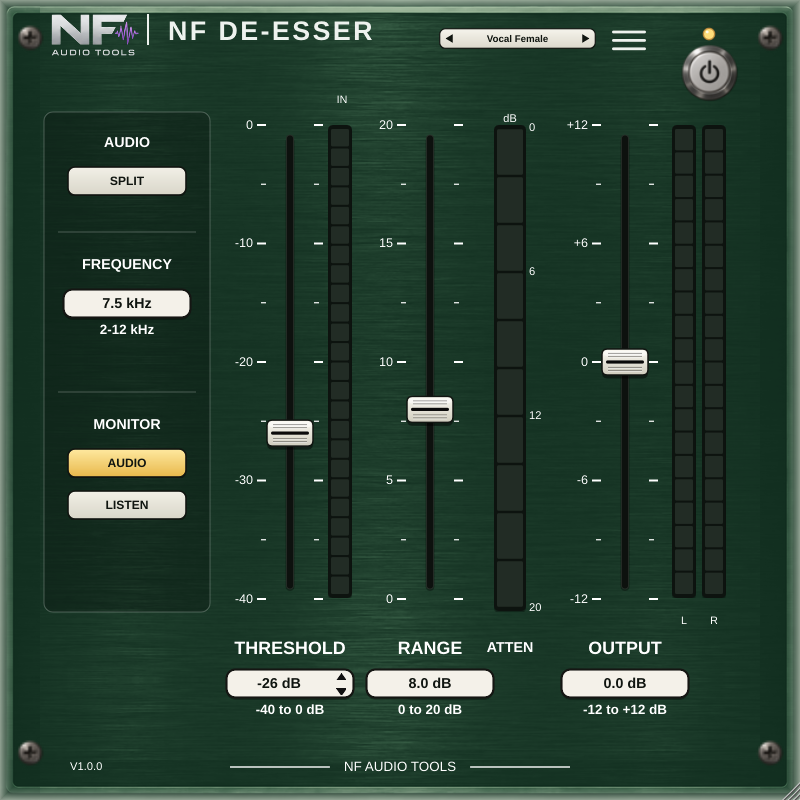
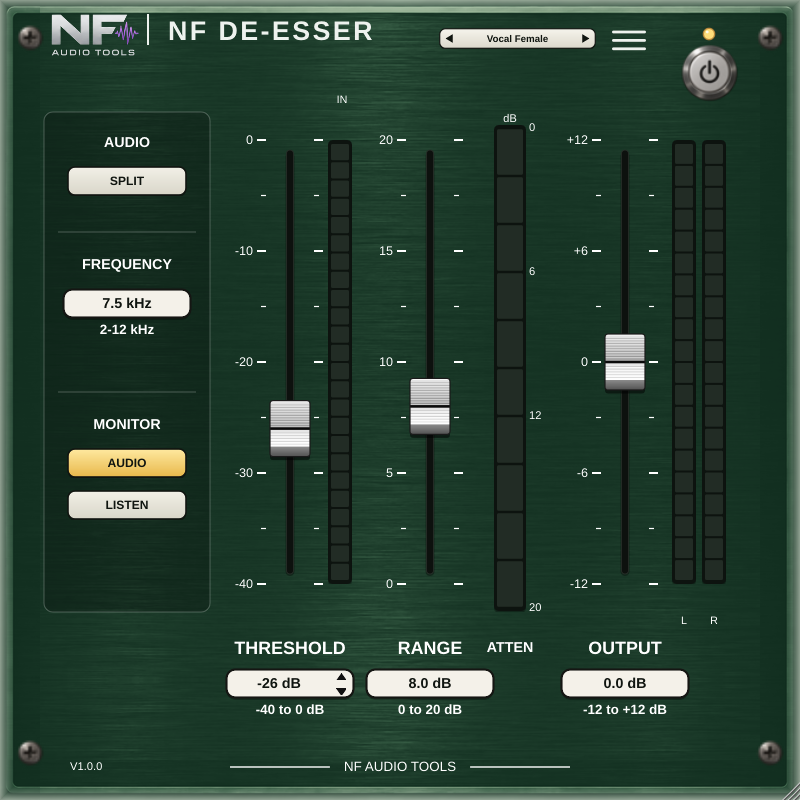
Silver ribbed fader cap with a black centre line
Claude-Session: https://claude.ai/code/session_01EbhKLRF1YXDywKjGvwZhBR

diff --git a/Source/UI/NFDeEsserLookAndFeel.cpp b/Source/UI/NFDeEsserLookAndFeel.cpp
@@ -55,7 +55,7 @@ void NFDeEsserLookAndFeel::drawRotarySlider(juce::Graphics& g,int x,int y,int w,
 // The vertical faders (component id "fader"): the thumb travel margin scales with the component so the scale marks drawn by the editor line up.
 int NFDeEsserLookAndFeel::getSliderThumbRadius(juce::Slider& slider)
 {
-    if (slider.getComponentID() == "fader") return juce::roundToInt((float) slider.getWidth() * 0.24f);
+    if (slider.getComponentID() == "fader") return juce::roundToInt((float) slider.getWidth() * 0.5f);   // half the cap height (56 base units)
     return juce::LookAndFeel_V4::getSliderThumbRadius(slider);
 }
 
@@ -81,27 +81,46 @@ void NFDeEsserLookAndFeel::drawLinearSlider(juce::Graphics& g,int x,int y,int wi
     g.setColour(juce::Colour(0xff2a302b));
     g.drawRoundedRectangle(centreX-3.5f*s, trackTop, 7.0f*s, trackBottom-trackTop, 3.5f*s, 0.8f*s);
 
-    // Thumb: console-style fader cap, cream-white like the knobs, with grip ridges and a black centre line.
-    juce::Rectangle<float> thumb(centreX-23.0f*s, sliderPos-13.0f*s, 46.0f*s, 26.0f*s);
-    g.setColour(juce::Colour(0x70000000));
-    g.fillRoundedRectangle(thumb.translated(0.0f,3.5f*s), 5.0f*s);
-    g.setGradientFill(juce::ColourGradient(juce::Colour(0xfffcfaf3), thumb.getCentreX(), thumb.getY(),
-                                           juce::Colour(0xffcfccbd), thumb.getCentreX(), thumb.getBottom(), false));
-    g.fillRoundedRectangle(thumb, 5.0f*s);
-    g.setColour(juce::Colours::white.withAlpha(0.55f));                       // soft highlight on the upper edge
-    g.fillRoundedRectangle(thumb.reduced(2.0f*s).removeFromTop(5.0f*s), 2.5f*s);
-    g.setColour(juce::Colour(0xff111511));
-    g.drawRoundedRectangle(thumb, 5.0f*s, 1.5f*s);
-    // grip ridges above and below the centre line
-    for (float dy : { -8.5f, -5.5f, 5.5f, 8.5f })
+    // Thumb: silver ribbed fader cap (like the classic console / DAW faders): upper half silver, lower half brighter, a black line at the
+    // centre (the value mark) and a dark band along the bottom edge.
+    juce::Rectangle<float> thumb(centreX-20.0f*s, sliderPos-28.0f*s, 40.0f*s, 56.0f*s);
+    const float midY = thumb.getCentreY();
+    g.setColour(juce::Colour(0x80000000));
+    g.fillRoundedRectangle(thumb.translated(0.0f,3.5f*s), 3.0f*s);
     {
-        g.setColour(juce::Colour(0x55000000));
-        g.fillRect(thumb.getX()+6.0f*s, thumb.getCentreY()+dy*s-0.6f*s, thumb.getWidth()-12.0f*s, 1.2f*s);
-        g.setColour(juce::Colours::white.withAlpha(0.6f));
-        g.fillRect(thumb.getX()+6.0f*s, thumb.getCentreY()+dy*s+0.6f*s, thumb.getWidth()-12.0f*s, 0.8f*s);
+        juce::Graphics::ScopedSaveState clip(g);
+        juce::Path shape; shape.addRoundedRectangle(thumb, 3.0f*s); g.reduceClipRegion(shape);
+        // upper half
+        auto upper = thumb.withBottom(midY);
+        g.setGradientFill(juce::ColourGradient(juce::Colour(0xffe9e9e9), upper.getX(), upper.getY(), juce::Colour(0xffa9a9a9), upper.getX(), upper.getBottom(), false));
+        g.fillRect(upper);
+        // lower half, brighter, with a darker strip at the very bottom
+        auto lower = thumb.withTop(midY);
+        g.setGradientFill(juce::ColourGradient(juce::Colour(0xffe2e2e2), lower.getX(), lower.getY(), juce::Colour(0xfffdfdfd), lower.getX(), lower.getY() + lower.getHeight()*0.55f, false));
+        g.fillRect(lower);
+        // horizontal ribs
+        for (int i = 0; i < 9; ++i)
+        {
+            const float yy = thumb.getY() + 4.0f*s + (float) i * 2.6f*s;
+            if (yy < midY - 2.0f*s) { g.setColour(juce::Colour(0x30000000)); g.fillRect(thumb.getX(), yy, thumb.getWidth(), 0.9f*s); g.setColour(juce::Colours::white.withAlpha(0.45f)); g.fillRect(thumb.getX(), yy + 0.9f*s, thumb.getWidth(), 0.8f*s); }
+        }
+        for (int i = 0; i < 7; ++i)
+        {
+            const float yy = midY + 4.0f*s + (float) i * 2.8f*s;
+            if (yy < thumb.getBottom() - 11.0f*s) { g.setColour(juce::Colour(0x28000000)); g.fillRect(thumb.getX(), yy, thumb.getWidth(), 0.9f*s); g.setColour(juce::Colours::white.withAlpha(0.8f)); g.fillRect(thumb.getX(), yy + 0.9f*s, thumb.getWidth(), 1.0f*s); }
+        }
+        // dark strip along the bottom
+        auto strip = thumb.removeFromBottom(10.0f*s);
+        g.setGradientFill(juce::ColourGradient(juce::Colour(0xff8a8a8a), strip.getX(), strip.getY(), juce::Colour(0xff505050), strip.getX(), strip.getBottom(), false));
+        g.fillRect(strip);
+        // highlight on the top edge
+        g.setColour(juce::Colours::white.withAlpha(0.7f)); g.fillRect(thumb.getX(), thumb.getY(), thumb.getWidth(), 1.6f*s);
     }
+    thumb = juce::Rectangle<float>(centreX-20.0f*s, sliderPos-28.0f*s, 40.0f*s, 56.0f*s);
     g.setColour(juce::Colour(0xff0a0a0a));                                     // centre line (the value mark)
-    g.fillRoundedRectangle(thumb.getX()+4.0f*s, thumb.getCentreY()-1.6f*s, thumb.getWidth()-8.0f*s, 3.2f*s, 1.6f*s);
+    g.fillRect(thumb.getX(), thumb.getCentreY()-1.3f*s, thumb.getWidth(), 2.6f*s);
+    g.setColour(juce::Colour(0xff1a1a1a));
+    g.drawRoundedRectangle(thumb, 3.0f*s, 1.2f*s);
 }
 
 void NFDeEsserLookAndFeel::drawScrew(juce::Graphics& g, juce::Rectangle<float> bounds)

diff --git a/Source/PluginEditor.cpp b/Source/PluginEditor.cpp
@@ -14,7 +14,7 @@ juce::Image readyAsset(const char* data, int size) { return juce::ImageCache::ge
 constexpr int kDefaultSize = 540;   // 800 x 800 base shown at 0.675, the same text scale as the 810 x 270 plug-ins
 constexpr float kThresholdX = 290.0f, kRangeX = 430.0f, kOutputX = 625.0f, kAttenX = 510.0f;
 constexpr float kFaderW = 56.0f, kFaderY = 112.0f, kFaderH = 500.0f;   // vertical fader box (base units)
-constexpr float kThumbMargin = 13.44f;                                   // fader thumb travel margin (0.24 * width): the meters span the same range
+constexpr float kThumbMargin = 28.0f;                                    // fader thumb travel margin (half the cap height, 0.5 * width): the meters span the same range
 constexpr float kLeftX = 127.0f;                                         // centre of the left column
 
 juce::String formatOut(double v){ auto s=juce::String(v,1); if(v>0.05) s="+"+s; else if(v>-0.05) s="0.0"; return s+" dB"; }
